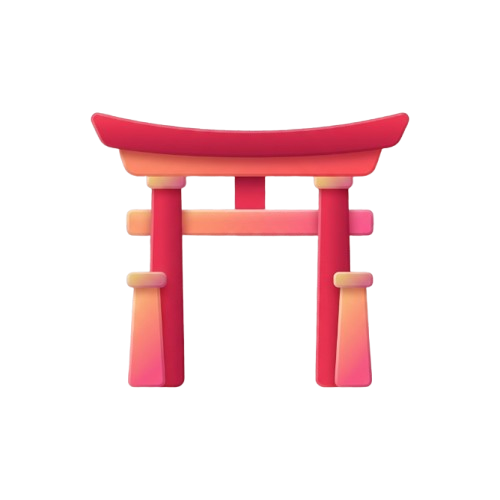
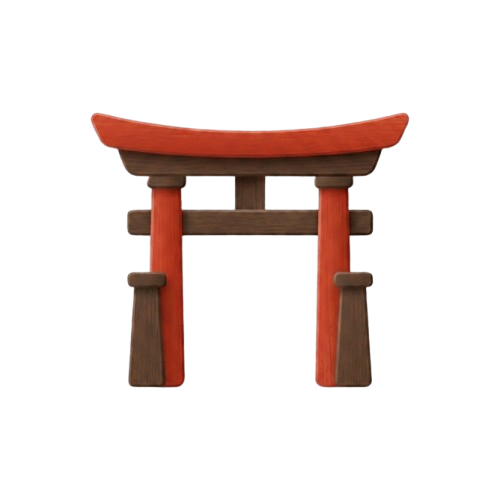
feat(onboarding): add taipei + taj mahal to landmark scatter
Icons & hidden gems page had 3 floating landmarks; added the 2 new
assets to round out the set.

Changed region(s): [[0.18, 0.21, 0.81, 0.78]]

diff --git a/mobile/app/(app)/onboarding.tsx b/mobile/app/(app)/onboarding.tsx
@@ -135,13 +135,15 @@ function FloatingLandmark({ image, size, rotate, delayMs, position }: {
   );
 }
 
-// Three landmarks scattered at hand-picked offsets/rotations for a natural, non-grid look.
+// Five landmarks scattered at hand-picked offsets/rotations for a natural, non-grid look.
 function LandmarkScatter() {
   return (
     <View style={{ height: 320 }}>
       <FloatingLandmark image={require("../../assets/images/landmarks/eiffel.png")} size={120} rotate={-6} delayMs={0} position={{ top: 0, left: "6%" }} />
       <FloatingLandmark image={require("../../assets/images/landmarks/colosseum.png")} size={150} rotate={5} delayMs={150} position={{ top: 92, right: "4%" }} />
       <FloatingLandmark image={require("../../assets/images/landmarks/torii.png")} size={132} rotate={-3} delayMs={300} position={{ top: 176, left: "24%" }} />
+      <FloatingLandmark image={require("../../assets/images/landmarks/taj.png")} size={110} rotate={8} delayMs={450} position={{ top: 8, right: "26%" }} />
+      <FloatingLandmark image={require("../../assets/images/landmarks/taipei.png")} size={128} rotate={-4} delayMs={600} position={{ top: 210, right: "8%" }} />
     </View>
   );
 }